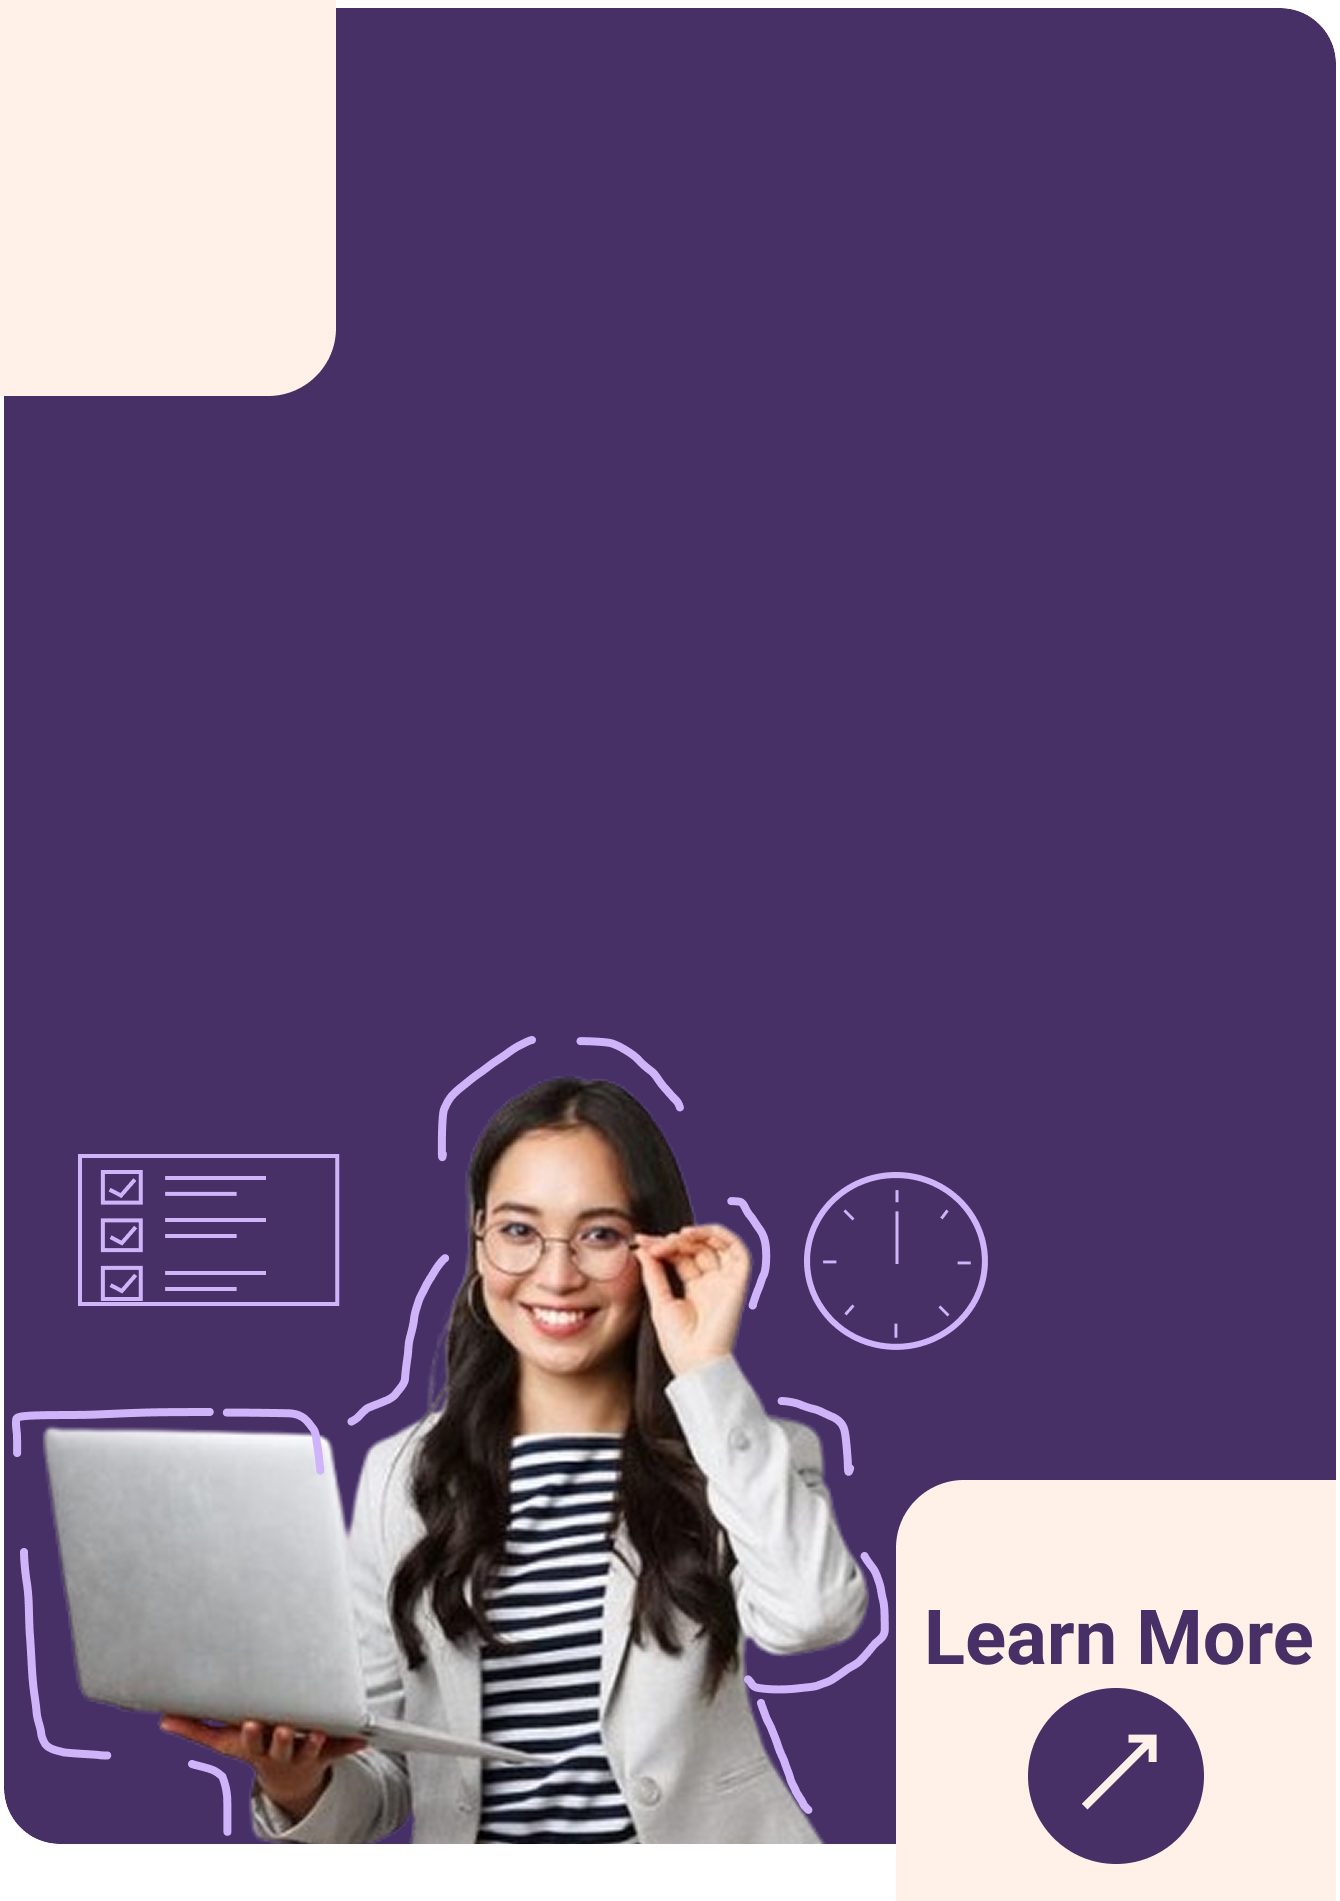
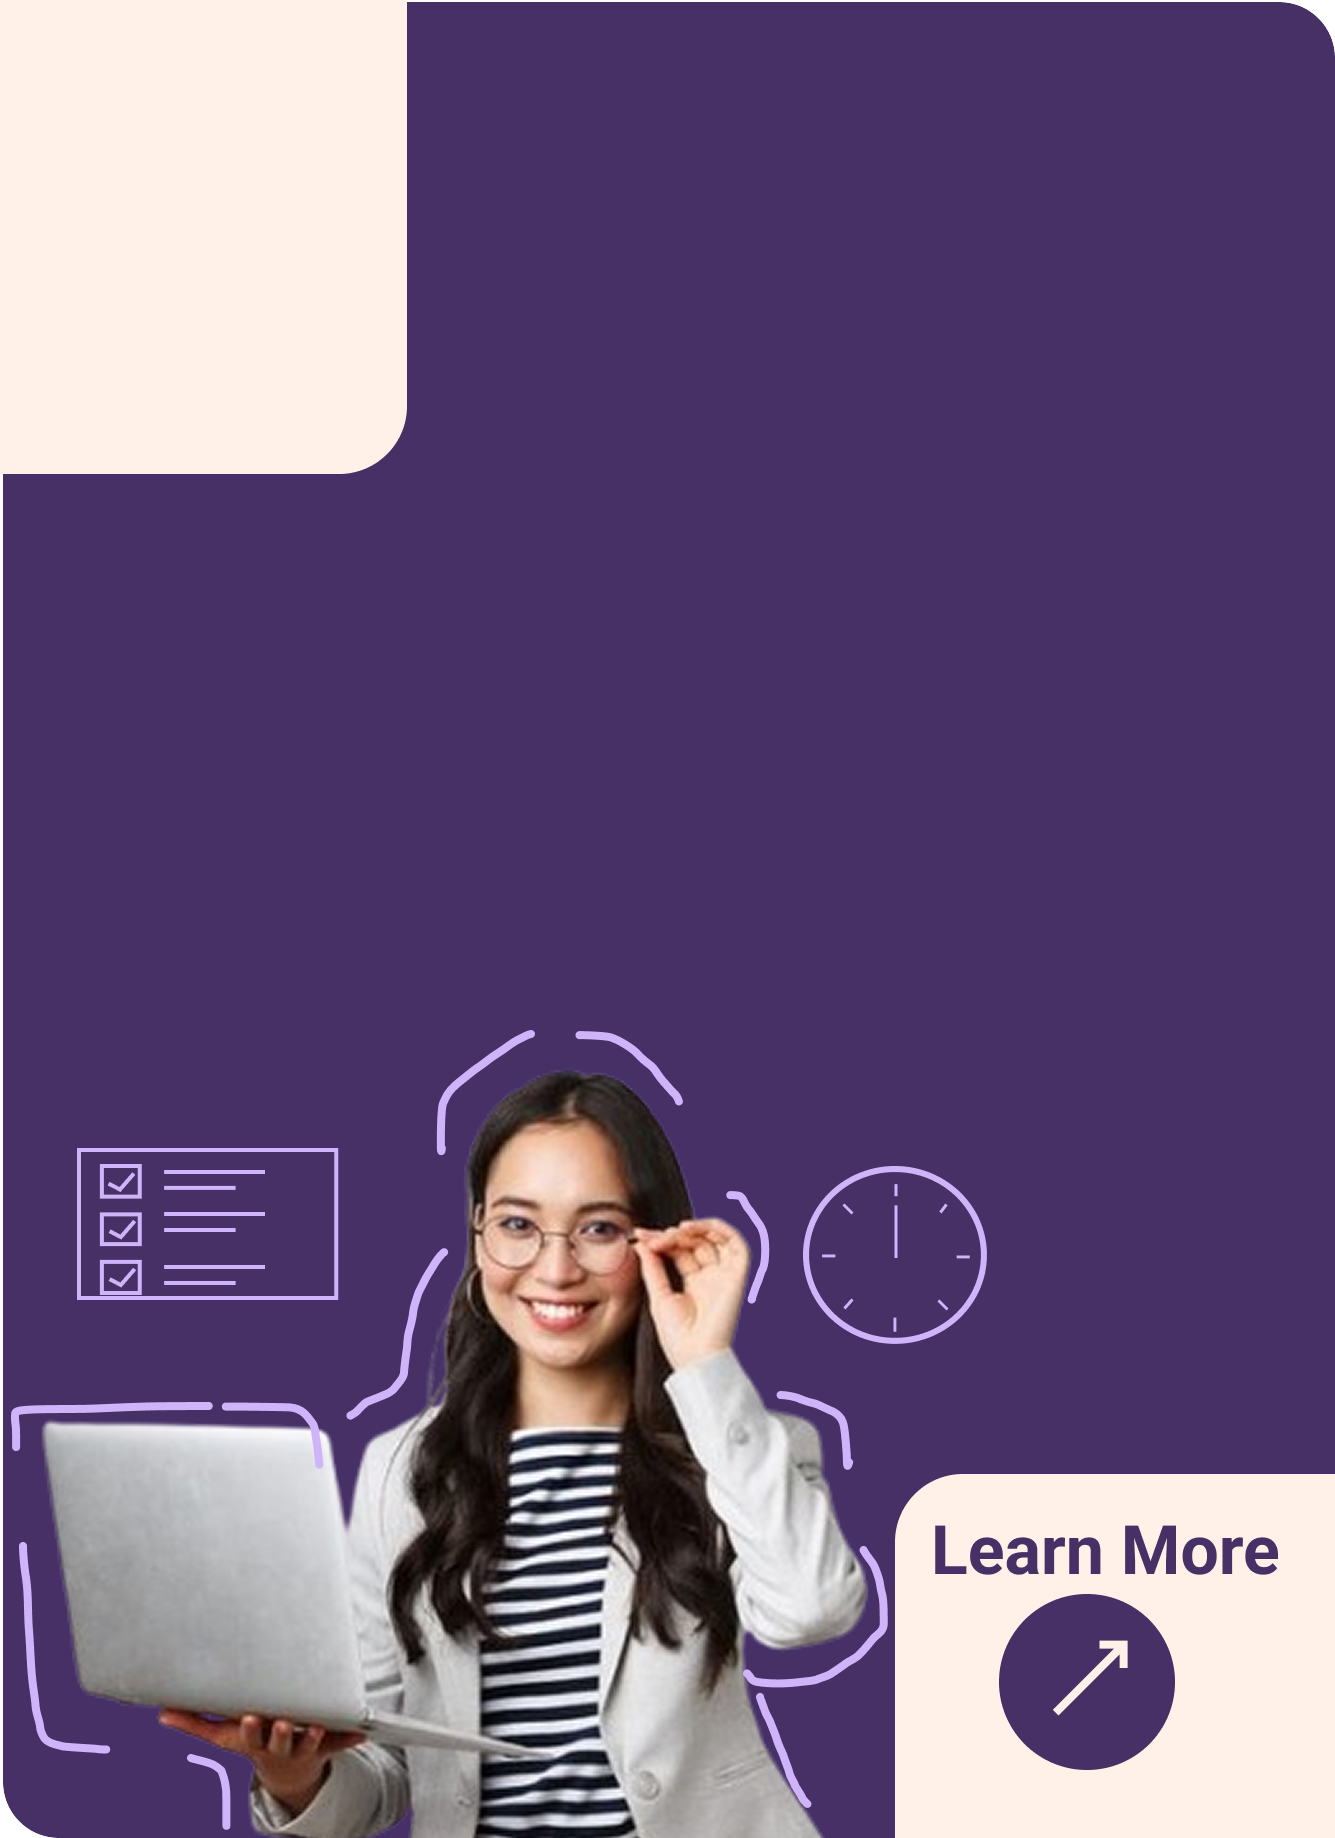
mych

Changed region(s): [[0.0, 0.0, 1.0, 1.0]]

diff --git a/src/pages/Home/homecontent/homecontent.css b/src/pages/Home/homecontent/homecontent.css
@@ -19,17 +19,17 @@
 
 
 .bluecard{
-background-color: var(--primarycolor);
+
 border-bottom-right-radius: 30px;
 
 ul{color: #D3B5FF;}}
 .orgcard{
-background-color: var(--secondarycolor);
+
 border-top-left-radius: 30px; ul{
   color: #FF9B6F;
 }}
 .pinkcard{
-  background-color: #F3857E;
+
   ul{
     color: #8D3A35;
   }
@@ -194,7 +194,7 @@ bottom:4px;
 }
 .offer-section ul{
     position: absolute;
-    top: 80px;
+    top: 100px;
     left: 13px;
     padding: 10px;
     text-align: left;
